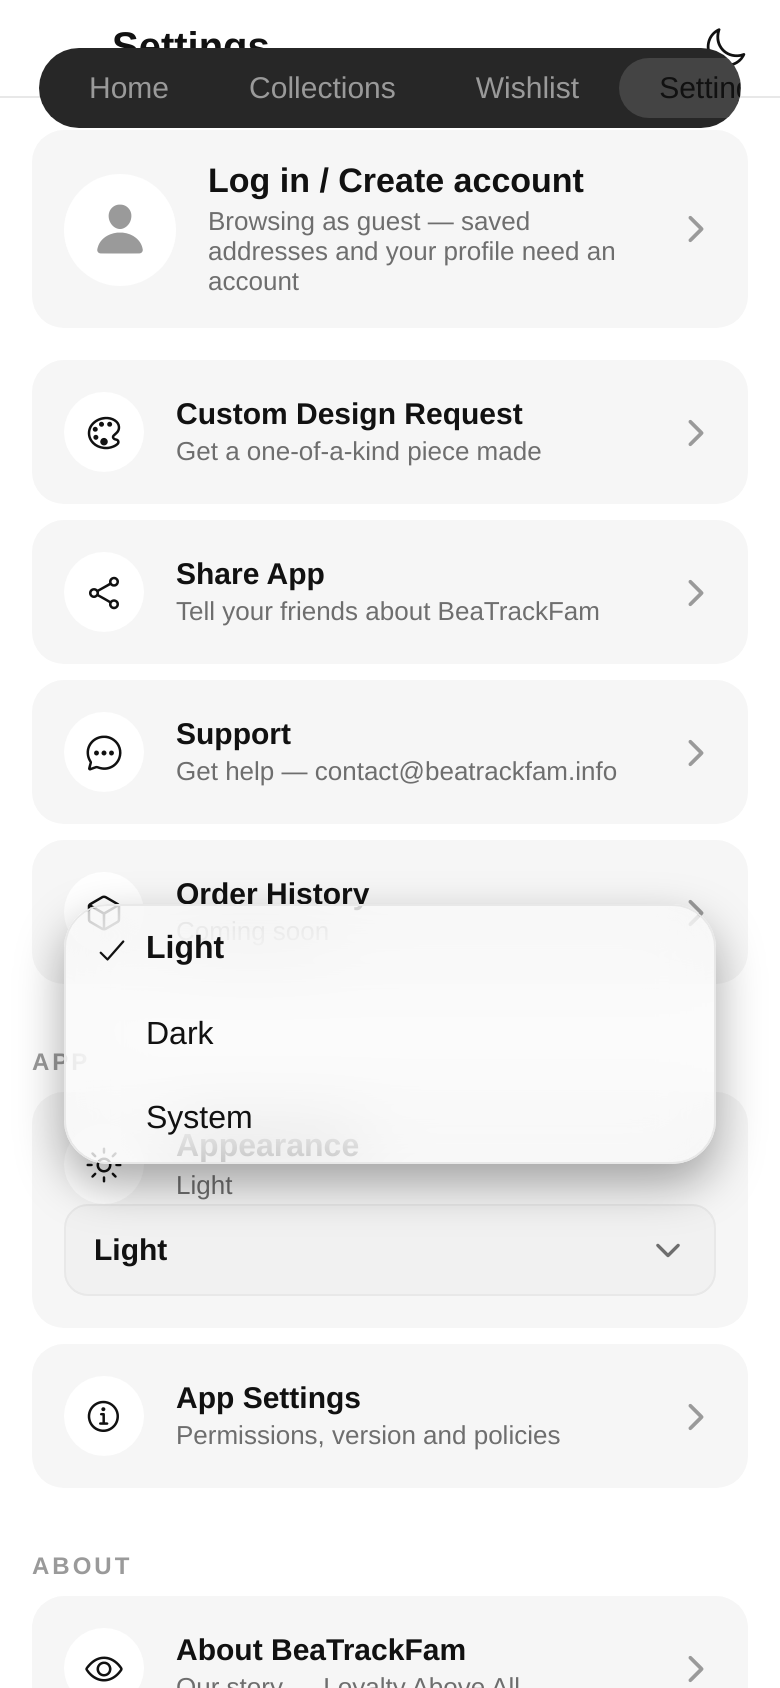
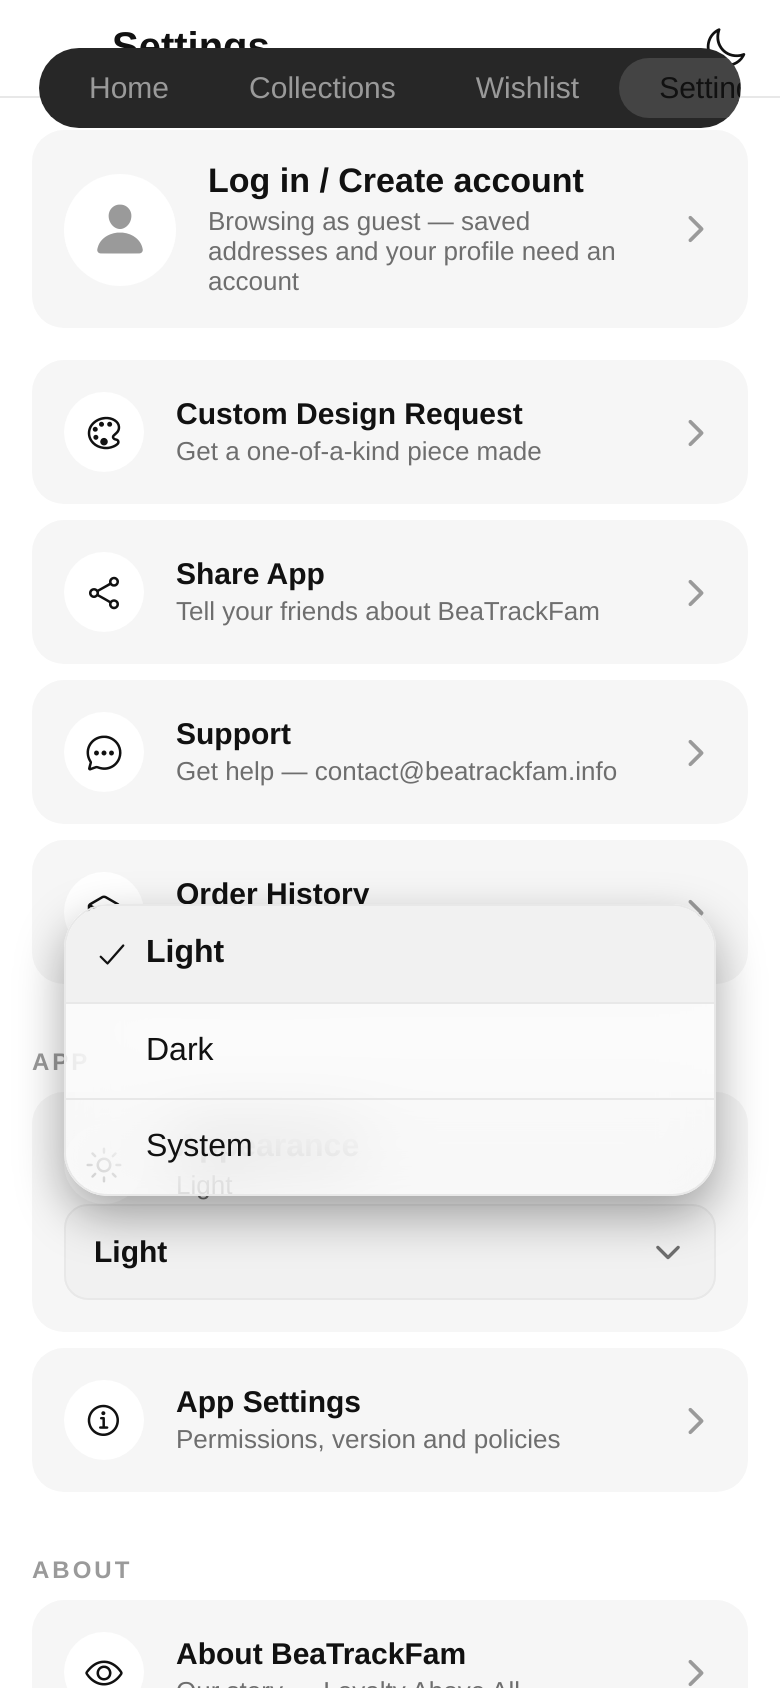
Version 8.2.2 (822): built-in iOS tab bar + OS dropdown menus, polished

diff --git a/components/NativeDropdown.tsx b/components/NativeDropdown.tsx
@@ -82,7 +82,7 @@ class MenuBoundary extends React.Component<
 }
 
 export function NativeDropdown(props: DropdownProps) {
-  const { value, options, onSelect, accessibilityLabel } = props;
+  const { value, options, onSelect, sheetTitle, accessibilityLabel } = props;
   const { colors } = useTheme();
 
   const jsMenu = <AnchoredMenuDropdown {...props} />;
@@ -99,13 +99,16 @@ export function NativeDropdown(props: DropdownProps) {
     <MenuBoundary fallback={jsMenu}>
       <MenuView
         style={{ alignSelf: "stretch" }}
+        title={sheetTitle}
         actions={options.map((option) => ({
           id: option.value,
           title: option.label,
           state: option.value === value ? "on" : "off",
         }))}
         onPressAction={({ nativeEvent }) => {
-          if (nativeEvent.event) onSelect(nativeEvent.event);
+          if (nativeEvent.event && nativeEvent.event !== value) {
+            onSelect(nativeEvent.event);
+          }
         }}
       >
         <View
@@ -115,6 +118,8 @@ export function NativeDropdown(props: DropdownProps) {
           ]}
           accessibilityRole="button"
           accessibilityLabel={accessibilityLabel}
+          accessibilityValue={{ text: selectedLabel }}
+          accessibilityHint="Opens a menu of choices"
         >
           <Text style={[styles.fieldValue, { color: colors.text }]} numberOfLines={1}>
             {selectedLabel}
@@ -225,7 +230,7 @@ function AnchoredMenuDropdown({ value, options, onSelect, accessibilityLabel }: 
                   bounces={false}
                   showsVerticalScrollIndicator={options.length > 8}
                 >
-                  {options.map((option) => {
+                  {options.map((option, idx) => {
                     const selected = option.value === value;
                     return (
                       <Pressable
@@ -233,6 +238,11 @@ function AnchoredMenuDropdown({ value, options, onSelect, accessibilityLabel }: 
                         onPress={() => pick(option.value)}
                         style={({ pressed }) => [
                           styles.row,
+                          idx > 0 && {
+                            borderTopWidth: StyleSheet.hairlineWidth,
+                            borderTopColor: colors.border,
+                          },
+                          selected && { backgroundColor: colors.input },
                           pressed && { backgroundColor: colors.surface },
                         ]}
                         accessibilityRole="button"
@@ -276,7 +286,8 @@ const styles = StyleSheet.create({
     borderWidth: 1,
     borderRadius: Radius.md,
     paddingHorizontal: 14,
-    paddingVertical: 12,
+    paddingVertical: 13,
+    minHeight: 48,
   },
   fieldValue: {
     flex: 1,
@@ -304,6 +315,7 @@ const styles = StyleSheet.create({
     alignItems: "center",
     paddingVertical: 12,
     paddingHorizontal: 14,
+    minHeight: 48,
   },
   checkSlot: { width: 26, alignItems: "flex-start", justifyContent: "center" },
   rowText: { flex: 1, fontSize: 16, fontWeight: "500" },

diff --git a/app/(tabs)/_layout.tsx b/app/(tabs)/_layout.tsx
@@ -25,8 +25,8 @@ export default function TabsLayout() {
       tintColor={colors.text}
       iconColor={{ default: colors.textDim, selected: colors.text }}
       labelStyle={{
-        default: { color: colors.textDim },
-        selected: { color: colors.text },
+        default: { color: colors.textDim, fontWeight: "500" },
+        selected: { color: colors.text, fontWeight: "700" },
       }}
     >
       <NativeTabs.Trigger

diff --git a/app/settings/app-settings.tsx b/app/settings/app-settings.tsx
@@ -206,7 +206,7 @@ export default function AppSettings() {
         <SettingRow
           icon={icon("information-circle-outline")}
           title="Version"
-          subtitle="8.2.1 (Build 821)"
+          subtitle="8.2.2 (Build 822)"
         />
         <SettingRow
           icon={icon("phone-portrait-outline")}

diff --git a/app/settings/about.tsx b/app/settings/about.tsx
@@ -187,7 +187,7 @@ export default function About() {
         </View>
 
         <Text style={[styles.version, { color: colors.textDim }]}>
-          BeaTrackFam 8.2.1 (Build 821)
+          BeaTrackFam 8.2.2 (Build 822)
         </Text>
       </ScrollView>
     </View>

diff --git a/AGENTS.md b/AGENTS.md
@@ -33,8 +33,8 @@ Every new release bumps the **major** version by one and the build number by 100
 - `app/settings/about.tsx`: version line
 - `assets/splash.png`: small bottom label "Build 700 (7.0.0)" (regenerate per release — clone nearby fabric texture over the old label, don't flat-fill)
 - API levels (pinned Oct 2 2026, Joey's rule): `app.json` pins `ios.deploymentTarget: "16.4"` and `android.minSdkVersion: 24 / compileSdkVersion: 36 / targetSdkVersion: 36` — these are Expo SDK 57's defaults, pinned explicitly so they only change deliberately. At EVERY release, re-check the current App Store / Google Play target-API requirements (Play has required target API 36 for new apps and updates since Aug 31, 2026) and bump the pins + README Requirements section if the stores have moved. The same levels are published to GitHub Packages automatically (workflow uses the tag's tree).
-- Distribution zip name: `beatrackfam-app-v8.2.1.zip` (bump for each new file sent)
-- Standing rule (Joey, Oct 1 2026): bump the version EVERY time a new project file/zip is sent to him — currently 8.2.1 (821) in the repo (released + tagged v8.2.1 Oct 4 2026). Version and build number stay aligned (8.1.7 skipped because 817 was consumed as 8.1.6's build number; Joey, Oct 2 2026). The production profile has `autoIncrement: false` (turned off for 8.1.8) so the store shows exactly the app.json buildNumber.
+- Distribution zip name: `beatrackfam-app-v8.2.2.zip` (bump for each new file sent)
+- Standing rule (Joey, Oct 1 2026): bump the version EVERY time a new project file/zip is sent to him — currently 8.2.2 (822) in the repo (released + tagged v8.2.2 Oct 4 2026). Version and build number stay aligned (8.1.7 skipped because 817 was consumed as 8.1.6's build number; Joey, Oct 2 2026). The production profile has `autoIncrement: false` (turned off for 8.1.8) so the store shows exactly the app.json buildNumber.
 - Location permission is asked ON LAUNCH via the OS popup (lib/launchPermissions.ts, linkage-probed lazy import) — the onboarding location screen was deleted Oct 1 2026 at Joey's request (his earlier Apple-requirement note is superseded). The app-tracking/privacy onboarding screen stays (Apple-required). No "Skip for Now" button on the notification permission screen. Notification prompt fires WITH the onboarding notification screen (re-added Oct 2 2026 at Joey's request; popup on screen mount, only while undetermined) — it no longer fires on launch.
 - Crash-safety rule (Oct 2 2026): never statically import a native-only Expo module (expo-notifications, expo-location, expo-blur, checkout-sheet-kit) at the top of a launch-path file — lazy dynamic-import inside try/catch instead. A static import throws at bundle-evaluation time on an older dev build running newer JS and kills the app seconds after launch. Do NOT gate the lazy import on a TurboModuleRegistry/NativeModules name probe for Expo packages (they split into multiple native modules and names vary): a wrong probe silently disables the popups — Oct 2 2026 the probe stopped the location + notification popups from ever firing. The checkout-sheet-kit keeps its probe because it is a third-party RN module with one stable name.
 - After every version bump is complete, send Joey the "What's New" notes copy-paste ready (plain text, never a code block). Every version's notes end with: "Questions or concerns? Email us at contact@beatrackfam.info"
